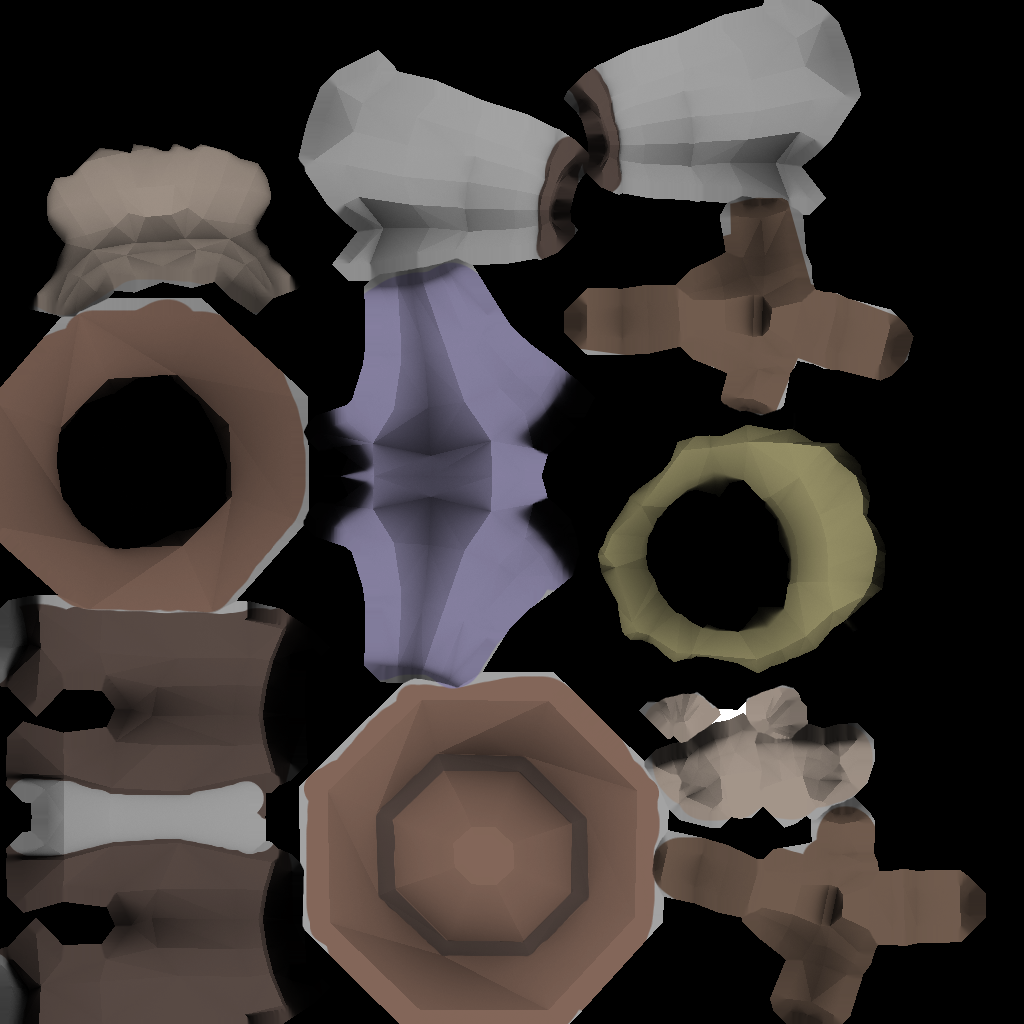
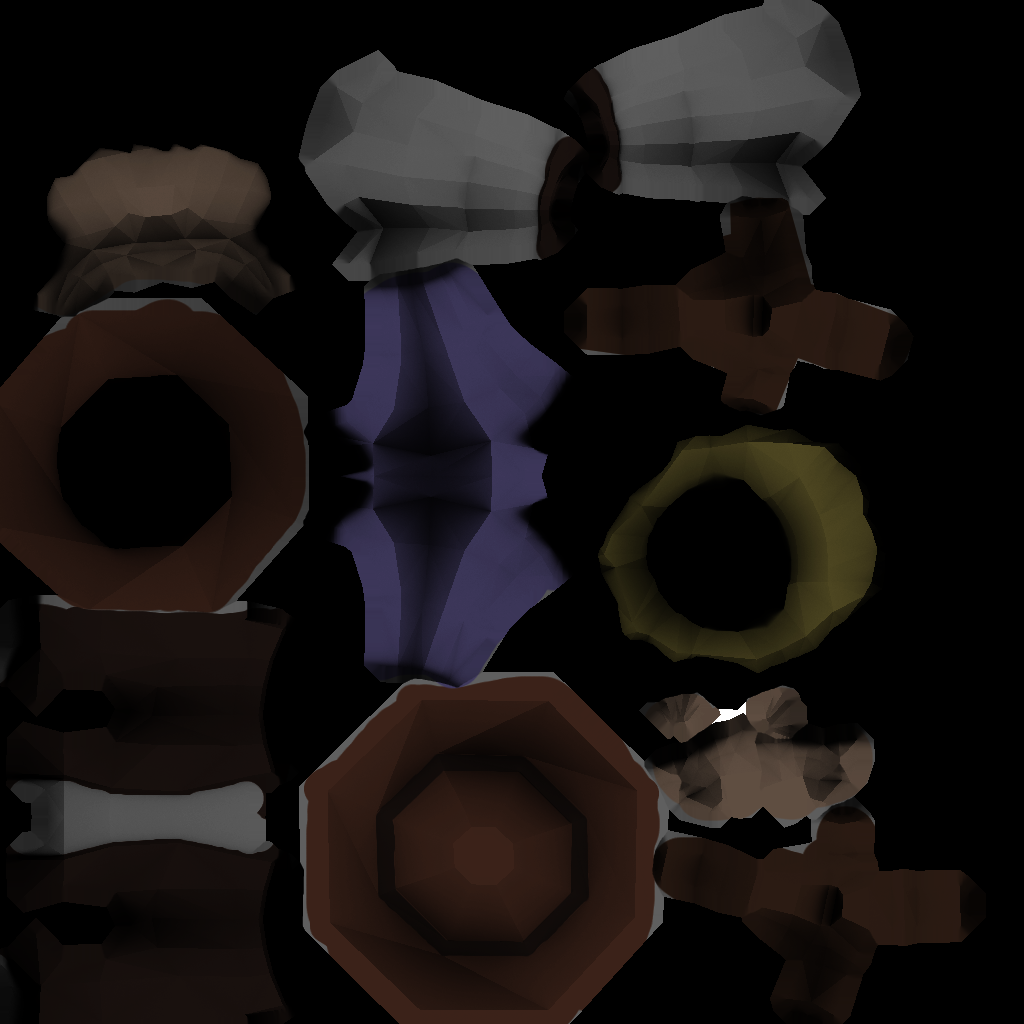
Added basic post processing
Base post processing class and color adjustment

diff --git a/src/Graphics/PostProcess.cpp b/src/Graphics/PostProcess.cpp
@@ -1,0 +1,123 @@
+#include <poly/Graphics/GLCheck.h>
+#include <poly/Graphics/PostProcess.h>
+
+namespace poly
+{
+
+
+///////////////////////////////////////////////////////////
+VertexArray PostProcess::quadVao;
+
+///////////////////////////////////////////////////////////
+VertexBuffer PostProcess::quadVbo;
+
+///////////////////////////////////////////////////////////
+Shader ColorAdjust::s_shader;
+
+
+///////////////////////////////////////////////////////////
+VertexArray& PostProcess::getVertexArray()
+{
+	if (!quadVao.getId())
+	{
+		float vertices[] =
+		{
+			-1.0f,  1.0f,
+			-1.0f, -1.0f,
+			 1.0f,  1.0f,
+
+			-1.0f, -1.0f,
+			 1.0f, -1.0f,
+			 1.0f,  1.0f,
+		};
+
+		// Create vertex buffer
+		quadVbo.create(vertices, 12);
+
+		// Create vertex array
+		quadVao.bind();
+		quadVao.addBuffer(quadVbo, 0, 2);
+	}
+
+	return quadVao;
+}
+
+
+///////////////////////////////////////////////////////////
+ColorAdjust::ColorAdjust() :
+	m_gamma			(2.2f)
+{
+
+}
+
+
+///////////////////////////////////////////////////////////
+ColorAdjust::ColorAdjust(float gamma) :
+	m_gamma			(gamma)
+{
+
+}
+
+
+///////////////////////////////////////////////////////////
+void ColorAdjust::render(FrameBuffer& input, FrameBuffer& output)
+{
+	// Bind output target
+	output.bind();
+
+	// Disable depth test
+	glDisable(GL_DEPTH_TEST);
+
+	// Disable cull face
+	glDisable(GL_CULL_FACE);
+
+	// Clear color buffer
+	glClear(GL_COLOR_BUFFER_BIT);
+
+	// Bind shader
+	Shader& shader = getShader();
+
+	shader.bind();
+	shader.setUniform("u_texture", 0);
+	shader.setUniform("u_gamma", m_gamma);
+
+	// Bind texture
+	input.getColorTexture()->bind(0);
+
+	// Render vertex array
+	VertexArray& vao = PostProcess::getVertexArray();
+	vao.bind();
+	vao.draw();
+}
+
+
+///////////////////////////////////////////////////////////
+Shader& ColorAdjust::getShader()
+{
+	if (!s_shader.getId())
+	{
+		// Load shader
+		s_shader.load("shaders/postprocess/quad.vert", Shader::Vertex);
+		s_shader.load("shaders/postprocess/color_adjust.frag", Shader::Fragment);
+		s_shader.compile();
+	}
+
+	return s_shader;
+}
+
+
+///////////////////////////////////////////////////////////
+void ColorAdjust::setGamma(float gamma)
+{
+	m_gamma = gamma;
+}
+
+
+///////////////////////////////////////////////////////////
+float ColorAdjust::getGamma() const
+{
+	return m_gamma;
+}
+
+
+}

diff --git a/include/poly/Graphics/PostProcess.h b/include/poly/Graphics/PostProcess.h
@@ -1,0 +1,58 @@
+#ifndef POLY_POST_PROCESS_H
+#define POLY_POST_PROCESS_H
+
+#include <poly/Graphics/FrameBuffer.h>
+#include <poly/Graphics/Shader.h>
+#include <poly/Graphics/VertexArray.h>
+#include <poly/Graphics/VertexBuffer.h>
+
+namespace poly
+{
+
+///////////////////////////////////////////////////////////
+/// \brief TODO
+///
+///////////////////////////////////////////////////////////
+class PostProcess
+{
+public:
+	virtual void render(FrameBuffer& input, FrameBuffer& output = FrameBuffer::Default) = 0;
+
+private:
+	static VertexArray quadVao;
+	static VertexBuffer quadVbo;
+
+protected:
+	static VertexArray& getVertexArray();
+};
+
+
+///////////////////////////////////////////////////////////
+/// \brief TODO
+///
+///////////////////////////////////////////////////////////
+class ColorAdjust : public PostProcess
+{
+public:
+	ColorAdjust();
+
+	ColorAdjust(float gamma);
+
+	void render(FrameBuffer& input, FrameBuffer& output = FrameBuffer::Default) override;
+
+	void setGamma(float gamma);
+
+	float getGamma() const;
+
+private:
+	static Shader s_shader;
+
+	static Shader& getShader();
+
+private:
+	float m_gamma;
+};
+
+}
+
+#endif

diff --git a/examples/demo_app/DemoApp.cpp b/examples/demo_app/DemoApp.cpp
@@ -13,6 +13,7 @@
 #include <poly/Graphics/Image.h>
 #include <poly/Graphics/Model.h>
 #include <poly/Graphics/Octree.h>
+#include <poly/Graphics/PostProcess.h>
 #include <poly/Graphics/Shader.h>
 #include <poly/Graphics/Skeleton.h>
 #include <poly/Graphics/Texture.h>
@@ -78,11 +79,16 @@ int main()
     Clock clock;
     float time = 0.0f;
 
+    Texture texture[8];
+
     FrameBuffer framebuffer;
     framebuffer.create(1280, 720);
     framebuffer.bind();
-    framebuffer.attachColor();
+    framebuffer.attachColor(&texture[0]);
     framebuffer.attachDepth();
+
+    // Post process stuff
+    ColorAdjust colorAdjust;
 
 
     bool mouseDown = false;
@@ -143,7 +149,8 @@ int main()
 
         // Render scene
         octree.update();
-        octree.render(camera);
+        octree.render(camera, framebuffer);
+        colorAdjust.render(framebuffer);
 
         // Display (swap buffers)
         window.display();
@@ -156,3 +163,5 @@ int main()
 }
 
 // TODO : Copyable skeletons
+// TODO : Document Octree
+// TODO : Document FrameBuffer

diff --git a/include/poly/Graphics/GLCheck.h b/include/poly/Graphics/GLCheck.h
@@ -5,6 +5,8 @@
 
 #include <poly/Graphics/OpenGL.h>
 
+#include <GLFW/glfw3.h>
+
 #include <string>
 
 namespace poly
@@ -23,7 +25,7 @@ do \
 { \
 	expr; \
 	Uint32 err = glGetError(); \
-	if (err != GL_NO_ERROR) \
+	if (err != GL_NO_ERROR && glfwGetCurrentContext()) \
 		LOG_ERROR("[%s] - %s", STR(expr), poly::priv::getGLErrorMsg(err).c_str()); \
 } while (false)
 #else
